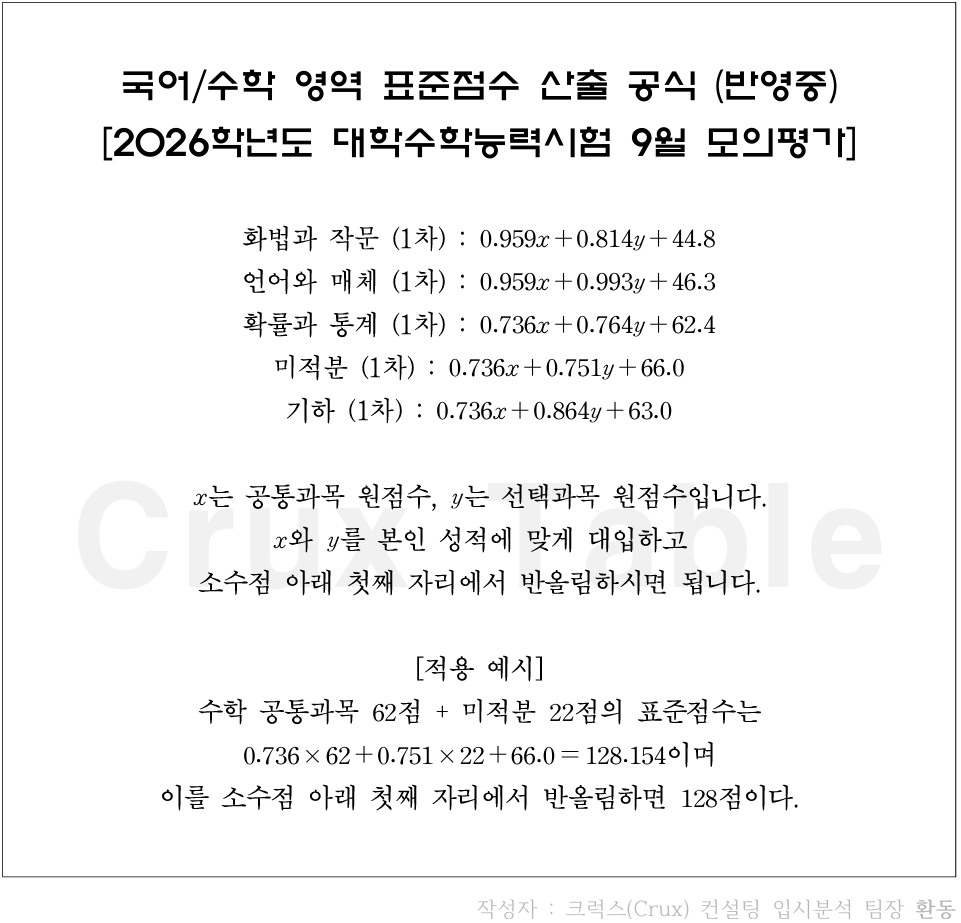
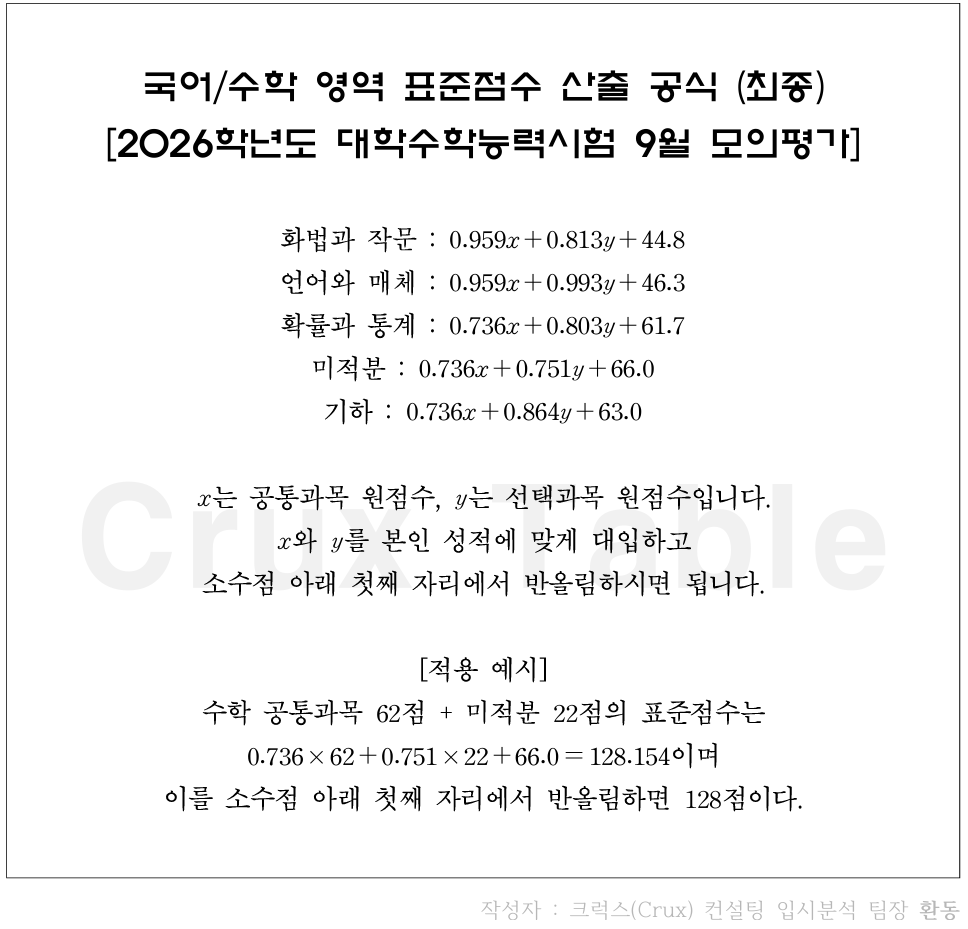
2026-9 확정

diff --git a/js/data.js b/js/data.js
@@ -8110,7 +8110,7 @@ let data = {
     "20269sat": {
         "국어": [
             {
-                "화법과 작문": [0.959, 0.814, 44.8],
+                "화법과 작문": [0.959, 0.813, 44.8],
                 "언어와 매체": [0.959, 0.993, 46.3]
             },
 ["143", "100", "1"],
@@ -8214,7 +8214,7 @@ let data = {
 ],
 "수학": [
     {
-        "확률과 통계": [0.736, 0.764, 62.4],
+        "확률과 통계": [0.736, 0.803, 61.7],
         "미적분": [0.736, 0.751, 66],
         "기하": [0.736, 0.864, 63]
     },
@@ -8727,7 +8727,7 @@ let data = {
 [],
 ["71", "100", "1"],
 ["70", "99", "1"],
-["69", "98", "1"],
+["70", "99", "1"],
 ["69", "98", "1"],
 ["68", "98", "1"],
 ["67", "97", "1"],
